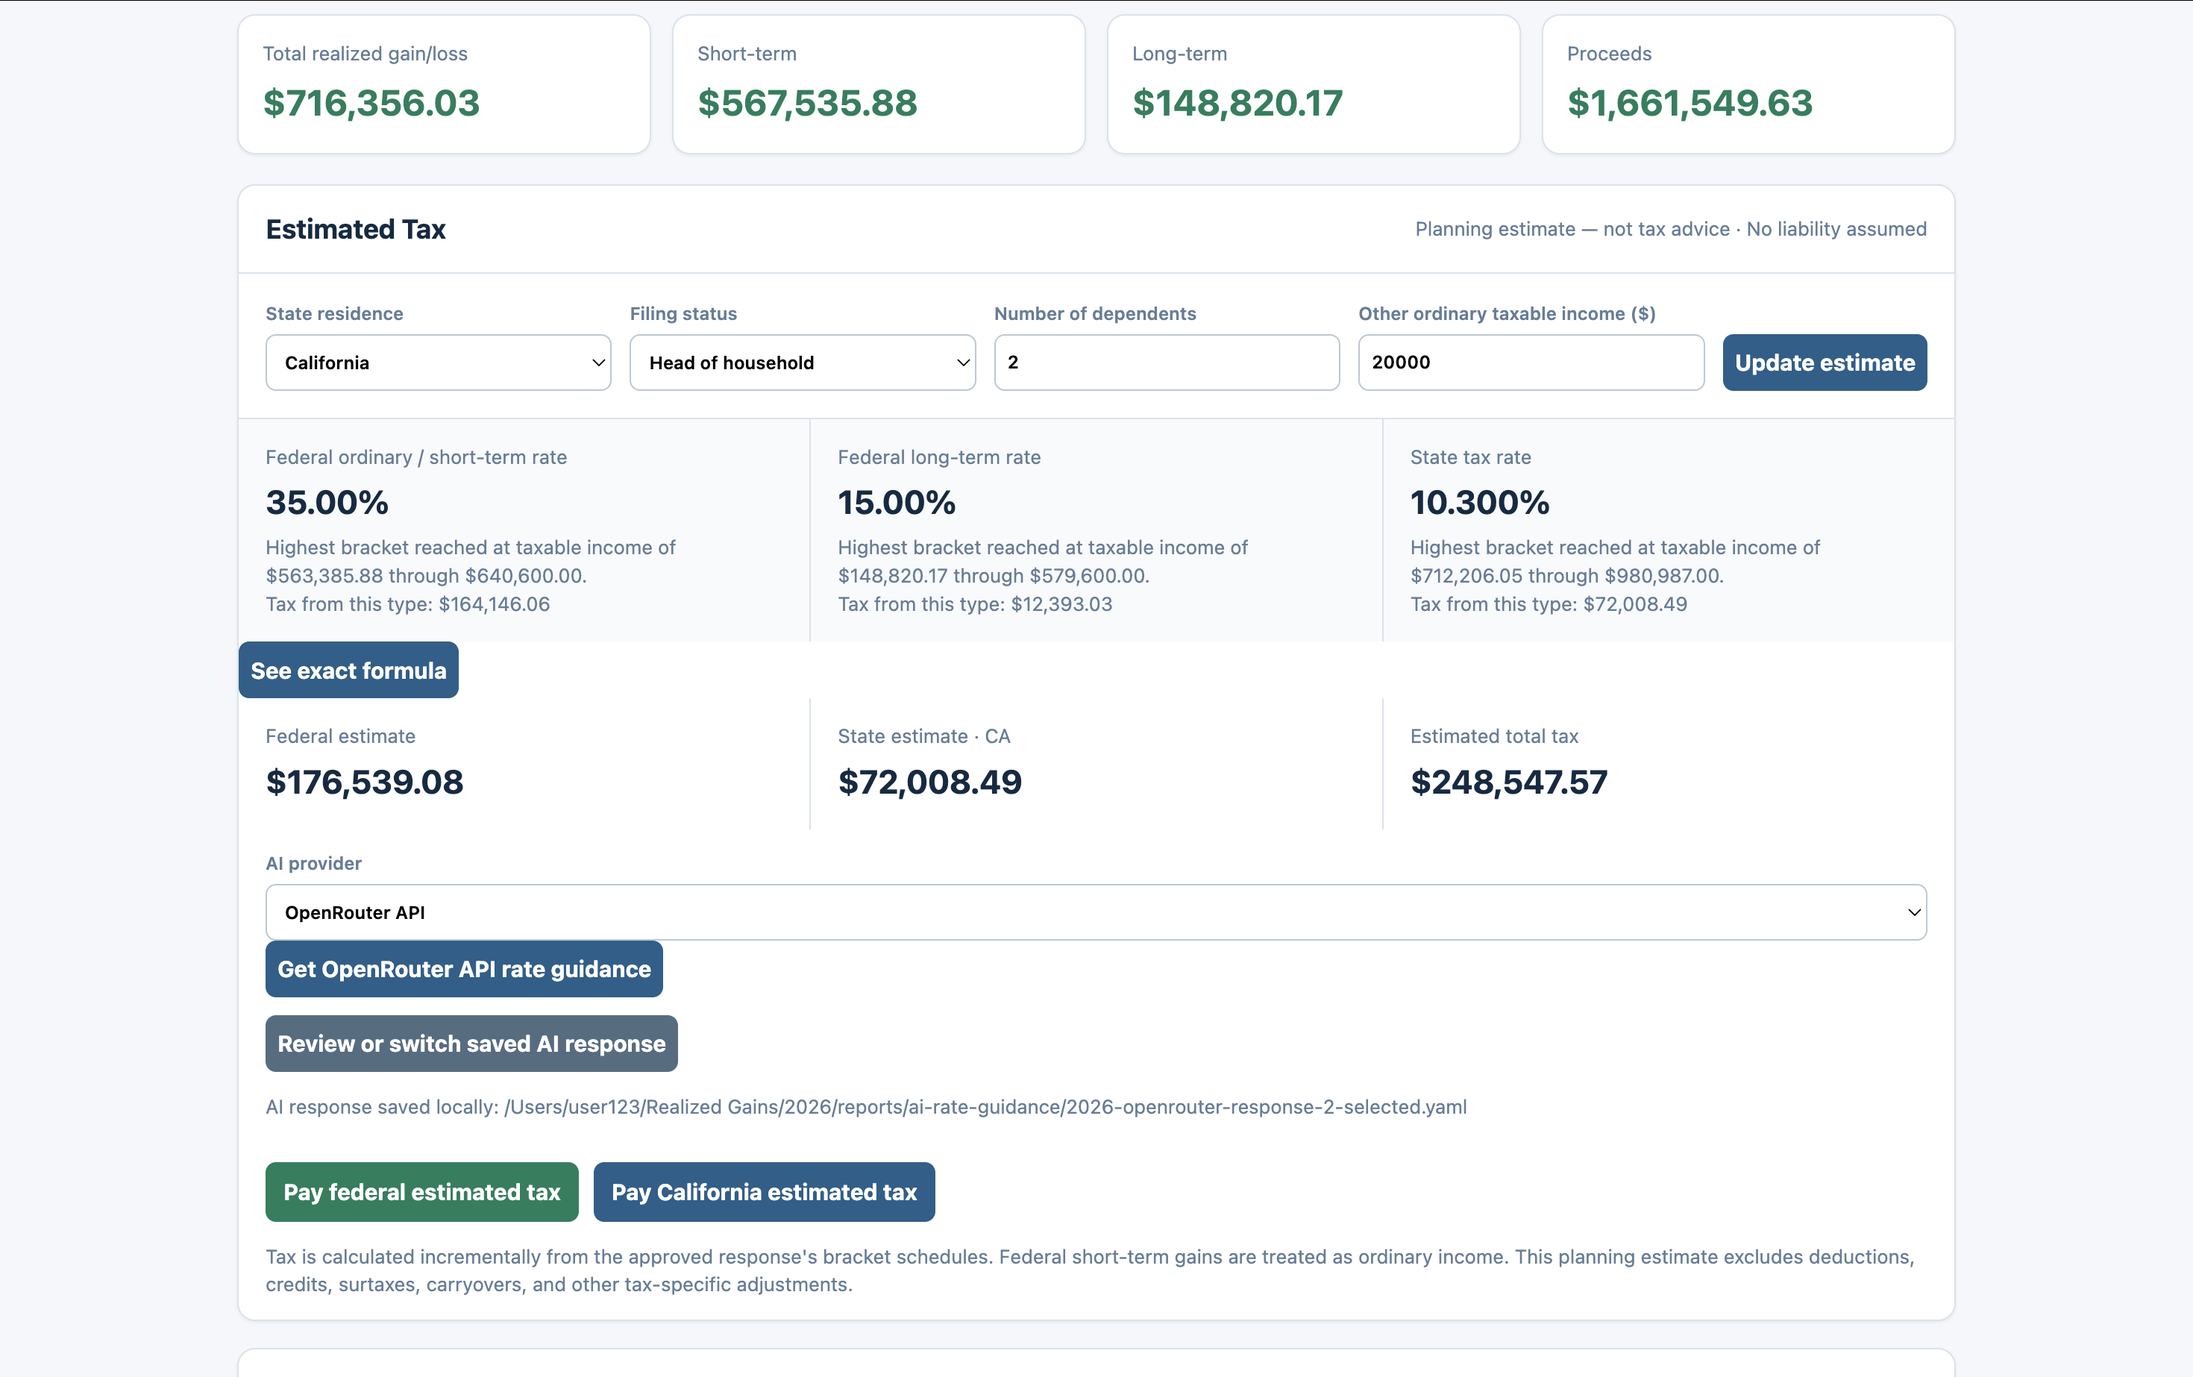
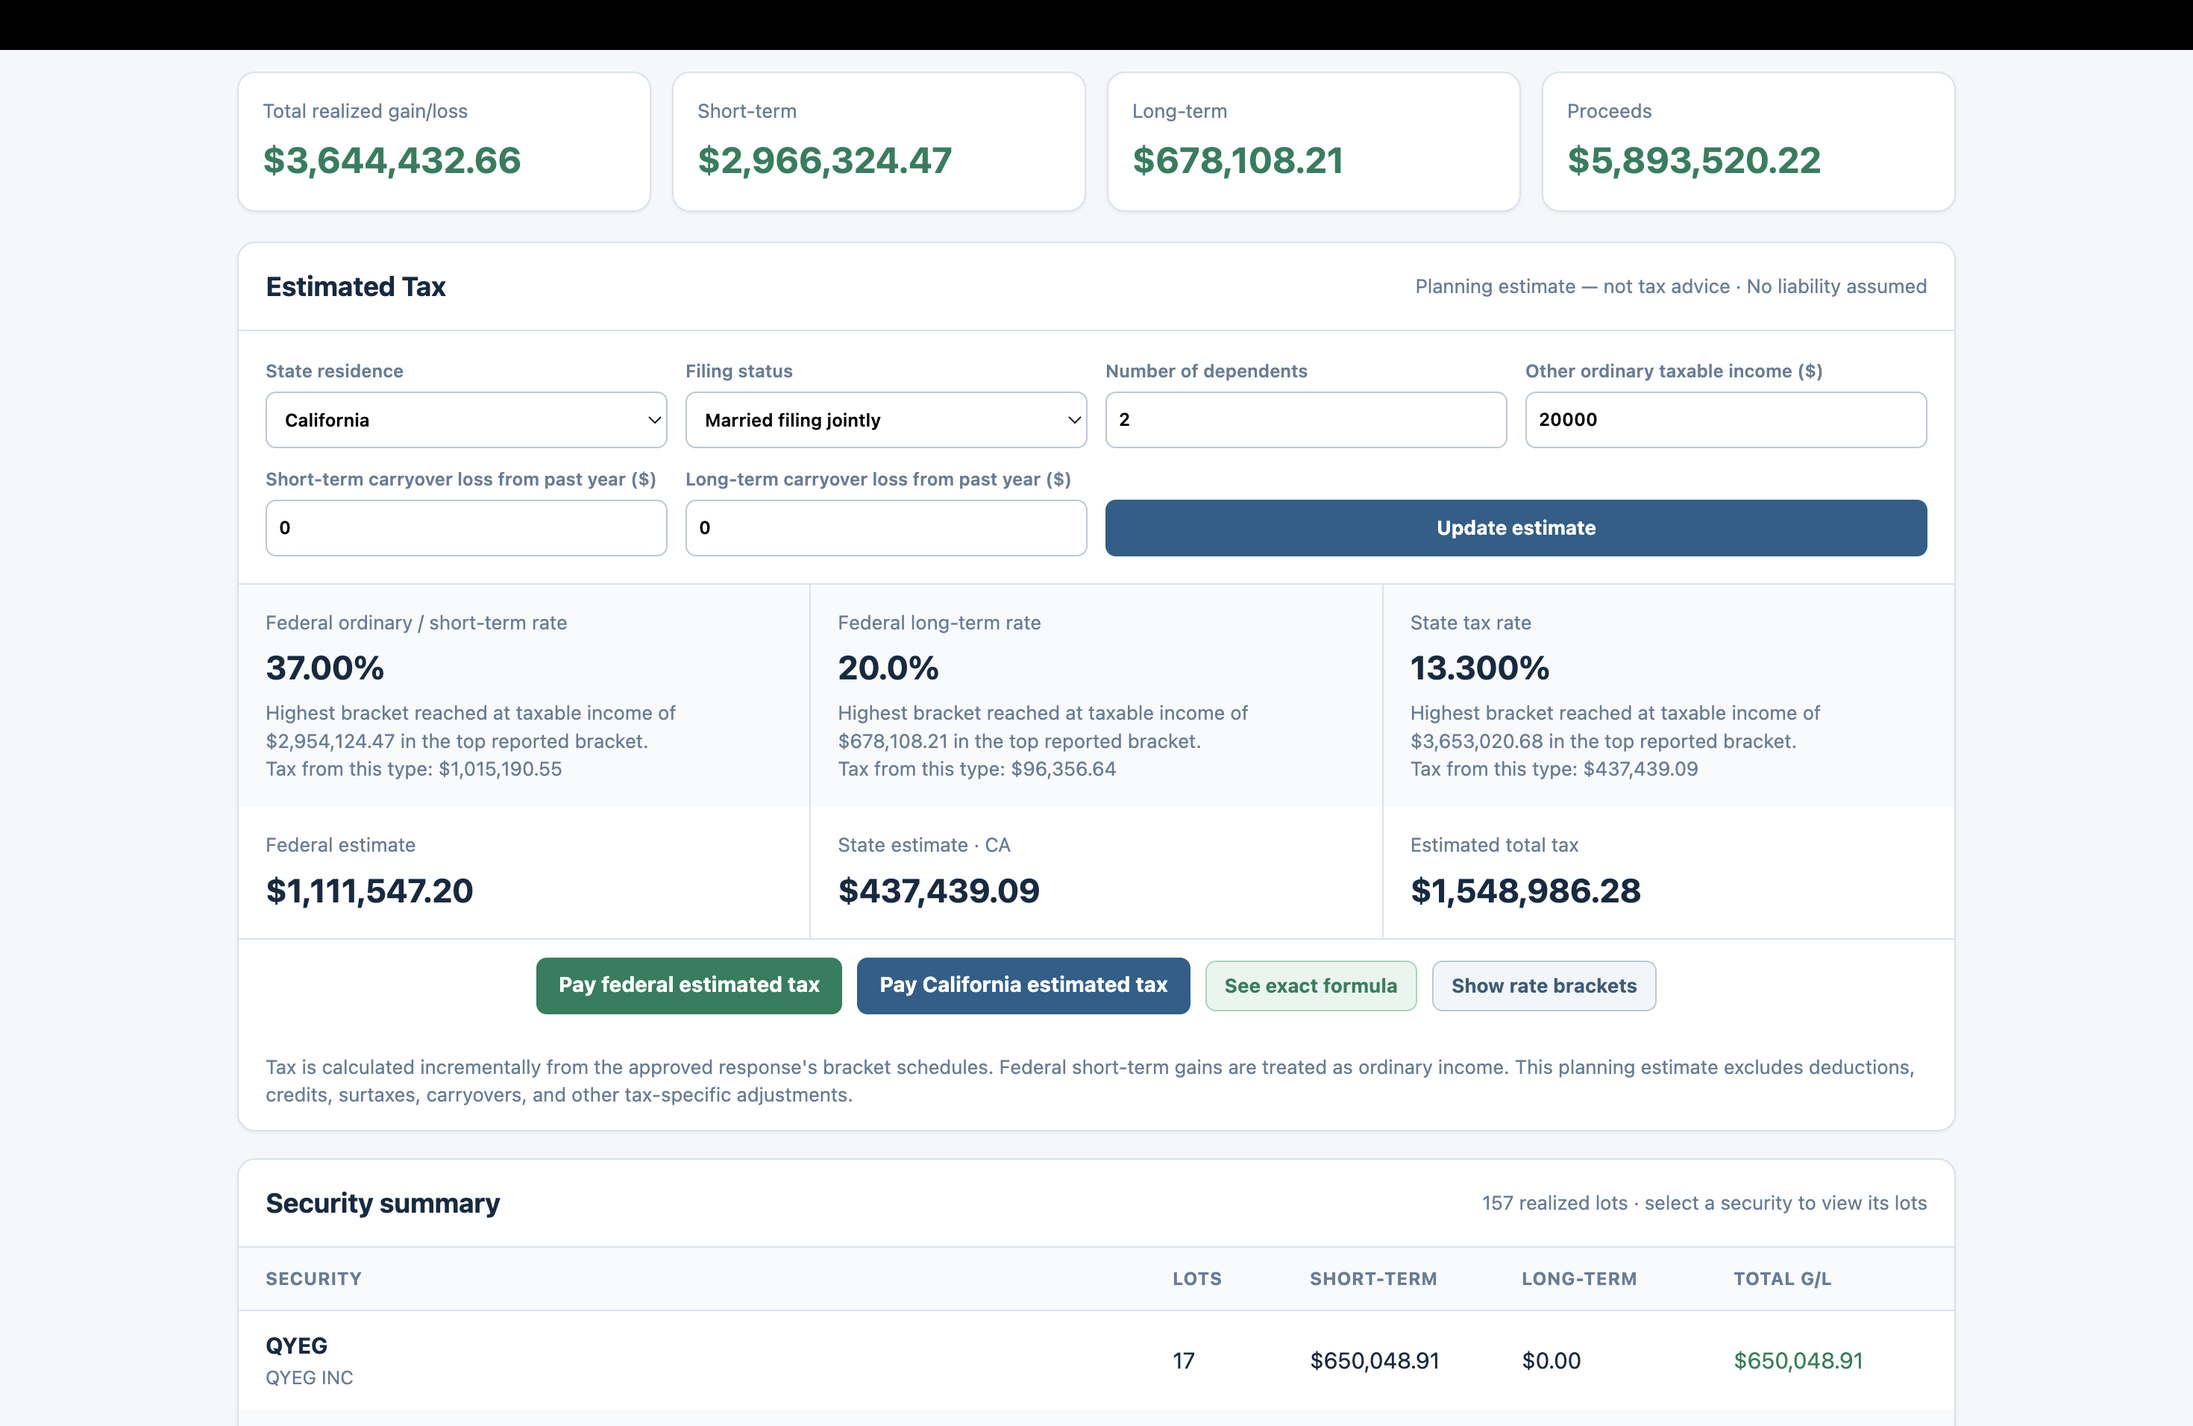
update documentation

diff --git a/capital_gain_estimate_tax_calculator/normalizer.py b/capital_gain_estimate_tax_calculator/normalizer.py
@@ -37,6 +37,14 @@ def parse_decimal(value: str | None) -> Decimal:
     return -parsed if is_negative else parsed
 
 
+def parse_optional_decimal(value: str | None) -> Decimal | None:
+    """Return a numeric CSV value, preserving whether the field was unavailable."""
+    text = (value or "").strip()
+    if not text or text in {"--", "—", "N/A"}:
+        return None
+    return parse_decimal(text)
+
+
 def parse_date(value: str | None):
     text = (value or "").strip()
     for pattern in ("%m/%d/%Y", "%Y-%m-%d", "%m/%d/%y"):
@@ -98,6 +106,7 @@ def _create_lot(
     long_term: Decimal,
     reported: Decimal,
     disallowed: Decimal,
+    tax_term: str | None = None,
 ) -> Lot:
     """Create the common domain model after a brokerage mapper extracts its fields."""
     return Lot(
@@ -110,7 +119,7 @@ def _create_lot(
         total_realized_gain_loss_usd=reported, disallowed_loss_usd=disallowed,
         economic_gain_loss_usd=proceeds - basis,
         return_pct=reported / basis if basis else ZERO,
-        tax_term=classify_tax_term(short_term, long_term, disallowed),
+        tax_term=tax_term or classify_tax_term(short_term, long_term, disallowed),
     )
 
 
@@ -214,8 +223,11 @@ def normalize_charles_schwab(path: Path, source_file: str) -> list[Lot]:
             sale_date = parse_date(row.get("Closed Date"))
             proceeds = parse_decimal(row.get("Proceeds"))
             basis = parse_decimal(row.get("Cost Basis (CB)"))
-            short_term = parse_decimal(row.get("Short Term (ST) Gain/Loss ($)"))
-            long_term = parse_decimal(row.get("Long Term (LT) Gain/Loss ($)"))
+            short_term_value = parse_optional_decimal(row.get("Short Term (ST) Gain/Loss ($)"))
+            long_term_value = parse_optional_decimal(row.get("Long Term (LT) Gain/Loss ($)"))
+            short_term = short_term_value if short_term_value is not None else ZERO
+            long_term = long_term_value if long_term_value is not None else ZERO
+            tax_term = _schwab_tax_term(short_term_value, long_term_value)
             reported = parse_decimal(row.get("Total Gain/Loss ($)"))
             disallowed = parse_decimal(row.get("Disallowed Loss"))
             symbol = (row.get("Symbol") or "N/A").strip()
@@ -227,9 +239,20 @@ def normalize_charles_schwab(path: Path, source_file: str) -> list[Lot]:
                 quantity=parse_decimal(row.get("Quantity")),
                 acquired_date=sale_date, sale_date=sale_date,
                 proceeds=proceeds, basis=basis, short_term=short_term, long_term=long_term,
-                reported=reported, disallowed=disallowed,
+                reported=reported, disallowed=disallowed, tax_term=tax_term,
             ))
     return lots
+
+
+def _schwab_tax_term(short_term: Decimal | None, long_term: Decimal | None) -> str | None:
+    """Use Schwab's populated gain/loss columns instead of inferring a holding period."""
+    if short_term is not None and long_term is not None:
+        return "Mixed"
+    if short_term is not None:
+        return "Short-Term"
+    if long_term is not None:
+        return "Long-Term"
+    return None
 
 
 def source_note(schema: str) -> str:

diff --git a/capital_gain_estimate_tax_calculator/web.py b/capital_gain_estimate_tax_calculator/web.py
@@ -13,6 +13,7 @@ from pathlib import Path
 from urllib.parse import parse_qs, urlencode, urlparse
 
 from .models import Lot, NormalizedReport, ReportError, SourceSummary, totals
+from .normalizer import SCHWAB_SCHEMA
 from .dashboard_selection import DashboardSelection, SOURCE_FILE_FIELD, SOURCE_SELECTION_MARKER, selection_from_form
 from .dashboard_data import DashboardData, load_dashboard_data
 from .finder import choose_folder_in_finder, picker_start_folder
@@ -177,7 +178,12 @@ def _render_security_group(symbol: str, lots: list[Lot]) -> str:
 def _render_sources_section(report: NormalizedReport, selection: DashboardSelection) -> str:
     """Render persistent include/exclude controls for each recognized source file."""
     source_rows = "".join(_render_source_row(item, selection) for item in report.sources)
-    return f'''<style>.source-toggle{{display:flex;align-items:center;gap:8px;color:var(--ink);font-size:14px}}.source-toggle input{{appearance:auto;min-height:auto;width:16px;height:16px;margin:0;padding:0;accent-color:var(--gain)}}.sources td small{{display:block;margin:3px 0 0 24px;color:var(--muted);font-size:11px}}</style><section id="included-sources" class="panel sources"><div class="panel-heading"><h2>Included sources</h2><span>Use a toggle to include or exclude a source</span></div><table><thead><tr><th>Source</th><th>Records</th><th>Earliest sale</th><th>Latest sale</th></tr></thead><tbody>{source_rows}</tbody></table></section>'''
+    has_schwab = any(
+        item.source_name == SCHWAB_SCHEMA and selection.includes_source(item.source_file)
+        for item in report.sources
+    )
+    schwab_note = '''<aside class="source-note" role="note"><span aria-hidden="true">ℹ</span><div><strong>Charles Schwab source note</strong><p>Schwab exports do not include acquisition dates, so the closed date is shown as the acquisition-date placeholder. The populated long-term or short-term gain/loss column determines the tax term.</p></div></aside>''' if has_schwab else ""
+    return f'''<style>.source-toggle{{display:flex;align-items:center;gap:8px;color:var(--ink);font-size:14px}}.source-toggle input{{appearance:auto;min-height:auto;width:16px;height:16px;margin:0;padding:0;accent-color:var(--gain)}}.sources td small{{display:block;margin:3px 0 0 24px;color:var(--muted);font-size:11px}}.source-note{{display:flex;gap:10px;align-items:flex-start;margin:14px 18px 18px;padding:11px 13px;border:1px solid #bfd7ea;border-radius:8px;background:#f2f8fc;color:#315a78;font-size:13px}}.source-note>span{{font-size:16px;line-height:1.35}}.source-note strong{{display:block;color:var(--ink)}}.source-note p{{margin:2px 0 0;color:var(--muted)}}</style><section id="included-sources" class="panel sources"><div class="panel-heading"><h2>Included sources</h2><span>Use a toggle to include or exclude a source</span></div><table><thead><tr><th>Source</th><th>Records</th><th>Earliest sale</th><th>Latest sale</th></tr></thead><tbody>{source_rows}</tbody></table>{schwab_note}</section>'''
 
 
 def _render_tax_section(

diff --git a/tests/test_app.py b/tests/test_app.py
@@ -34,7 +34,7 @@ from capital_gain_estimate_tax_calculator.guidance_store import GuidanceResponse
 from capital_gain_estimate_tax_calculator.guidance_profile import GuidanceProfile  # noqa: E402
 from capital_gain_estimate_tax_calculator.guidance_review import GuidanceReviewService  # noqa: E402
 from capital_gain_estimate_tax_calculator.tax_guidance import TaxGuidanceService  # noqa: E402
-from capital_gain_estimate_tax_calculator.web import InvestmentGainWebApp, _render_config_modal, _render_dashboard, _render_security_group, _render_tax_section  # noqa: E402
+from capital_gain_estimate_tax_calculator.web import InvestmentGainWebApp, _render_config_modal, _render_dashboard, _render_security_group, _render_sources_section, _render_tax_section  # noqa: E402
 
 
 CHASE_HEADERS = [
@@ -170,12 +170,40 @@ class InvestmentGainAppTest(unittest.TestCase):
         self.assertEqual(schwab_lot.disallowed_loss_usd, Decimal("50"))
         self.assertIn("Account / brokerage", _render_security_group("SCHW", [schwab_lot]))
         self.assertIn(">Charles Schwab</td>", _render_security_group("SCHW", [schwab_lot]))
+        source_section = _render_sources_section(
+            report,
+            DashboardSelection(self.source, self.root / "reports", 2026),
+        )
+        self.assertIn("Charles Schwab source note", source_section)
+        self.assertIn("closed date is shown as the acquisition-date placeholder", source_section)
 
     def test_schwab_headers_are_detected_without_a_brokerage_filename(self) -> None:
         path = self.source / "broker_export.csv"
         write_csv(path, SCHWAB_HEADERS, [])
 
         self.assertEqual(detect_schema(path), "Charles Schwab")
+
+    def test_schwab_mapper_uses_populated_gain_loss_columns_for_tax_term(self) -> None:
+        path = self.source / "Schwab_terms.csv"
+        write_csv(path, SCHWAB_HEADERS, [
+            [
+                "LT", "LONG TERM", "01/02/2026", "10", "$100.00", "FIFO",
+                "$1,000.00", "$900.00", "$100.00", "11.1%", "$100.00", "11.1%", "--", "--", "No", "--",
+            ],
+            [
+                "ST", "SHORT TERM", "01/03/2026", "10", "$100.00", "FIFO",
+                "$1,000.00", "$1,200.00", "($200.00)", "-16.7%", "--", "--", "($200.00)", "-16.7%", "No", "--",
+            ],
+        ])
+
+        lots = {lot.symbol: lot for lot in normalize_sources(self.source, 2026).lots}
+
+        self.assertEqual(lots["LT"].long_term_gain_loss_usd, Decimal("100"))
+        self.assertEqual(lots["LT"].short_term_gain_loss_usd, Decimal("0"))
+        self.assertEqual(lots["LT"].tax_term, "Long-Term")
+        self.assertEqual(lots["ST"].short_term_gain_loss_usd, Decimal("-200"))
+        self.assertEqual(lots["ST"].long_term_gain_loss_usd, Decimal("0"))
+        self.assertEqual(lots["ST"].tax_term, "Short-Term")
 
     def test_dashboard_load_request_renders_report_data(self) -> None:
         server = ThreadingHTTPServer(("127.0.0.1", 0), InvestmentGainWebApp().handler())

diff --git a/README.md b/README.md
@@ -6,13 +6,13 @@ A private, local web app for reviewing realized investment gains, creating an au
 
 ![Capital Gain Estimate Tax Calculator dashboard](<doc/screenshots/Screenshot 1.png>)
 
-### Estimated tax and payment actions
+### Estimated tax, carryovers, and payment actions
 
-![Estimated tax results, saved guidance, and payment actions](<doc/screenshots/Screenshot 4.png>)
+![Estimated tax inputs, carryover losses, results, and payment actions](<doc/screenshots/Screenshot 4.png>)
 
-### AI rate-guidance review
+### Rate bracket review
 
-![AI rate-guidance review with selectable bracket responses](<doc/screenshots/Screenshot 2.png>)
+![Rate bracket review with selectable responses, separate federal and state deductions, and provider controls](<doc/screenshots/Screenshot 2.png>)
 
 ### Exact tax formula
 
@@ -67,21 +67,23 @@ The workbook includes **Summary**, **Security Summary**, **Realized Lots**, **Ch
 - Fidelity CSV files with `Account`, `Symbol(CUSIP)`, `Short Term Gain/Loss`, and `Long Term Gain/Loss`.
 - Charles Schwab realized gain/loss CSV files, including exports with a report-title row before the headers. Required fields include `Symbol`, `Closed Date`, `Proceeds`, `Cost Basis (CB)`, and `Total Gain/Loss ($)`; the file name may also include `Schwab`.
 
-Charles Schwab's export does not provide acquisition dates. The workbook uses the closed date as an acquisition-date placeholder and calls this out in **Source Notes**. Its reported short-term, long-term, total gain/loss, and disallowed-loss fields are retained for reconciliation.
+Charles Schwab's export does not provide acquisition dates. The workbook uses the closed date as an acquisition-date placeholder and calls this out in **Source Notes**. A numeric `Long Term (LT) Gain/Loss ($)` value classifies a lot as long-term, while a numeric `Short Term (ST) Gain/Loss ($)` value classifies it as short-term; blank or dash values are not treated as a term classification. Its reported short-term, long-term, total gain/loss, and disallowed-loss fields are retained for reconciliation.
 
 Exact duplicate-looking rows are kept because they may be separate tax lots. Confirm final figures against brokerage documents.
 
 ## Estimated Tax and AI rate guidance
 
-The Estimated Tax section accepts state residence, filing status, number of dependents, and other ordinary taxable income. These selections are saved locally and restored when the dashboard opens.
+The Estimated Tax section accepts state residence, filing status, number of dependents, other ordinary taxable income, and separate short-term and long-term capital-loss carryovers. These selections are saved locally and restored when the dashboard opens. Supported filing statuses include single, head of household, married filing jointly, and married filing separately.
 
-Choose a state to activate rate guidance, then select one of the supported providers:
+Carryovers offset gains of the same term first. Any remaining net capital loss can reduce ordinary income up to the annual planning cap: $3,000 for single and married-filing-jointly filers, or $1,500 for married-filing-separately filers. The current estimate applies the same carryover treatment to state tax; state-specific rules may differ.
+
+Choose **Show rate brackets** to open the Rate bracket window. It loads saved responses matching the selected state, filing status, and number of dependents. Select an AI provider there to request new guidance or open that provider's settings:
 
 - ChatGPT / OpenAI API
 - Google Gemini API
 - OpenRouter API
 
-The review window requests up to five responses and stops after three valid ones, or clearly indicates when fewer valid responses are available. It presents separate federal ordinary, federal long-term, and state bracket tables. You can edit bracket limits, rates, and the standard deduction; add or remove brackets; use a response; discard a response and retry; or later review and switch saved responses. Edited responses are validated before they are saved.
+The Rate bracket window retains up to three valid saved responses for the selected tax profile and indicates when that maximum has been reached. It presents separate federal ordinary, federal long-term, and state bracket tables, plus distinct federal and state standard deductions. You can edit bracket limits, rates, and deductions; add or remove brackets; select a response; or discard a response and request a replacement. Edited responses are marked as manually updated and validated before they are saved.
 
 When you select **Use**, all valid reviewed responses are saved as YAML in:
 
@@ -89,7 +91,7 @@ When you select **Use**, all valid reviewed responses are saved as YAML in:
 reports/ai-rate-guidance/
 ```
 
-The selected response is marked clearly. The dashboard maps the approved brackets to your income level, estimates federal and state tax, and offers **See exact formula**. Federal short-term gain/loss is treated as ordinary income; the formula view explains standard-deduction and bracket calculations.
+The selected response is marked clearly. The dashboard maps its approved brackets to your income level, estimates federal and state tax, and offers **See exact formula**. Federal short-term gain/loss is treated as ordinary income; the formula view explains the separate deductions, carryover treatment, and bracket calculations.
 
 Official federal and supported state payment links come from `reference/income_tax_payment_websites.yaml`. Verify amounts, deadlines, and payment destinations before making a payment.
 
@@ -121,6 +123,6 @@ python3 -m unittest discover -s tests -v
 
 ## Important limitations
 
-This is a planning and review tool, not tax, legal, accounting, investment, or payment advice. It does not cover every tax rule, deduction, credit, surtax, carryover, or brokerage adjustment. Review imported data, guidance, calculations, and payment decisions with qualified professionals where appropriate.
+This is a planning and review tool, not tax, legal, accounting, investment, or payment advice. It does not cover every tax rule, deduction, credit, surtax, carryover, or brokerage adjustment. In particular, the current state carryover calculation is a planning assumption rather than a state-by-state tax-rule engine. Review imported data, guidance, calculations, and payment decisions with qualified professionals where appropriate.
 
 See the in-app [Terms of Service](http://127.0.0.1:8765/terms) for the complete disclaimer, no-warranty, and limitation-of-liability terms. Developed by DC Technology Consulting for open-source, free use.
